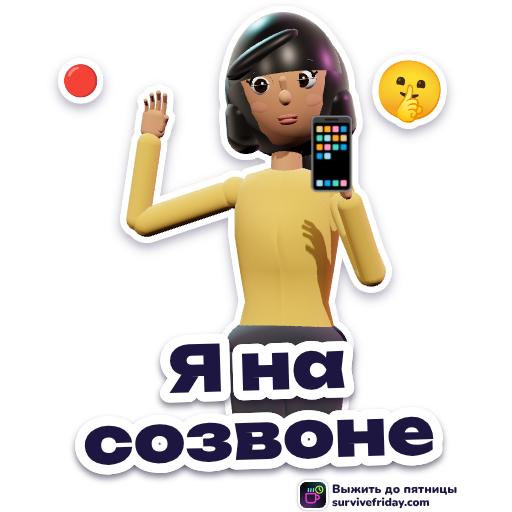
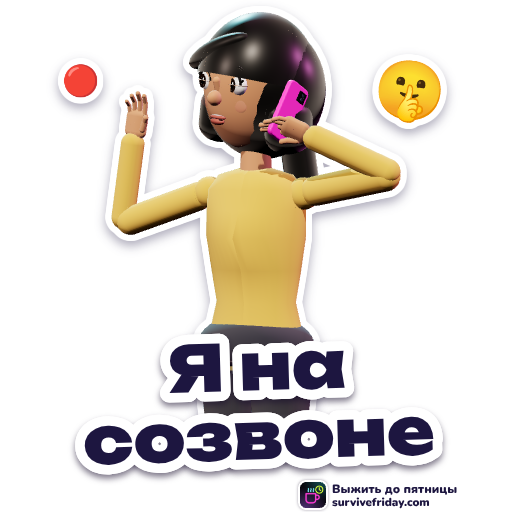
Стикеры: настоящий фейспалм (#13), 3D-телефон у уха (#10, #15), женские варианты 25–28
Claude-Session: https://claude.ai/code/session_01AAVyg7WURH38vHMPY1fwkq

diff --git a/tools/stickers.html b/tools/stickers.html
@@ -86,8 +86,8 @@ const STICKERS = [
   { cap: 'Понедельник…', emoji: ['😩', '☔', '😫'], cam: [0.3, 0.16],
     heroes: [{ p: 'f5', yaw: 0.15, emo: 'sad', mouth: 'sad', lids: 0.5, arms: [[0.12, 0, 0.0, -0.05], [0.12, 0, 0.0, -0.05]], head: [0.3, 0.1, 0.12], lean: [0.12, 0.04], gaze: [0, -0.25] }],
     decor: [{ e: '🌧', x: 95, y: 70, s: 84, r: 0 }, { e: '💧', x: 360, y: 150, s: 34, r: 0.2 }] },
-  { cap: 'Я на созвоне', emoji: ['📞', '🤫', '🎧'], cam: [0.35, 0.1],
-    heroes: [{ p: 'f4', yaw: 0.15, emo: 'neutral', mouth: 'neutral', arms: ['hi', 'phone'], hold: ['📱', 0.24], head: [0.05, 0.15, 0.12], gaze: [-0.25, 0] }],
+  { cap: 'Я на созвоне', emoji: ['📞', '🤫', '🎧'], cam: [0.55, 0.1],
+    heroes: [{ p: 'f4', yaw: 0.1, emo: 'neutral', mouth: 'neutral', arms: ['hi', 'down'], phoneEar: 1, head: [0.05, -0.3, -0.12], gaze: [-0.3, 0] }],
     decor: [{ e: '🤫', x: 410, y: 90, s: 58, r: 0.15 }, { e: '🔴', x: 80, y: 80, s: 30, r: 0 }] },
   { cap: 'Шеф, всё под контролем', emoji: ['👌', '🔥', '🙂'], cam: [0.3, 0.1],
     heroes: [{ p: 'm2', yaw: 0.15, emo: { brow: 0.3, browY: 0.056 }, mouth: 'grin', arms: ['down', 'thumb'], hold: ['👍', 0.3], head: [-0.05, 0.1, 0.1], gaze: [0.2, 0] }],
@@ -96,13 +96,13 @@ const STICKERS = [
     heroes: [{ p: 'f1', yaw: -0.2, emo: 'ask', mouth: 'grin', arms: ['down', 'show'], hold: ['📊', 0.36], head: [-0.05, -0.1, -0.2], gaze: [0.2, 0] }],
     decor: [{ e: '😅', x: 90, y: 90, s: 56, r: -0.15 }, { e: '⏳', x: 430, y: 90, s: 52, r: 0.2 }] },
   { cap: 'Ну давай, ещё\nодну правку', emoji: ['🤦', '✏', '😤'], cam: [0.3, 0.1],
-    heroes: [{ p: 'm3', yaw: 0.15, emo: 'sad', mouth: 'sad', lids: 0.6, arms: ['down', 'face'], head: [0.22, 0.05, 0.08], lean: [0.05, 0] }],
+    heroes: [{ p: 'm3', yaw: 0.15, emo: 'sad', mouth: 'sad', lids: 0.6, arms: ['down', 'down'], facepalm: 1, head: [0.35, 0.05, 0.1], lean: [0.06, 0] }],
     decor: [{ e: '✏', x: 90, y: 110, s: 60, r: -0.4 }, { e: '📝', x: 430, y: 110, s: 56, r: 0.25 }] },
   { cap: 'Я просто стажёр', emoji: ['🤷', '👶', '🙈'], cam: [0.25, 0.14],
     heroes: [{ p: 'kidm', yaw: 0.1, emo: 'ask', mouth: 'ask', arms: ['shrug', 'shrug'], head: [-0.05, 0.05, 0.2], gaze: [0, 0.1] }],
     decor: [{ e: '❔', x: 100, y: 90, s: 56, r: -0.2 }, { e: '❔', x: 420, y: 80, s: 46, r: 0.2 }] },
   { cap: 'Перезвоню', emoji: ['📱', '🏃', '👋'], cam: [-0.9, 0.1],
-    heroes: [{ p: 'm4', yaw: -0.85, emo: 'ask', mouth: 'neutral', arms: ['phone', 'walkB'], legs: [[-0.45, 0], [0.4, 0]], hold: ['📱', 0.24], holdArm: 0, head: [0, 0.35, 0], lean: [0.08, 0], gaze: [0.3, 0] }],
+    heroes: [{ p: 'm4', yaw: -0.85, emo: 'ask', mouth: 'neutral', arms: ['down', 'walkB'], legs: [[-0.45, 0], [0.4, 0]], phoneEar: 0, head: [0, 0.6, 0], lean: [0.08, 0], gaze: [0.3, 0] }],
     decor: [{ speed: 1, x: 380, y: 180, w: 100, flip: 1 }, { e: '💨', x: 440, y: 330, s: 60, r: 0 }] },
   { cap: 'Обед!', emoji: ['🍔', '😋', '🍕'], cam: [0.3, 0.1], crop: 1,
     heroes: [{ p: 'f4', yaw: 0.15, emo: 'happy', mouth: 'grin', arms: ['up', 'upV'], hold: ['🍔', 0.36], by: 0.12, legs: [[0.25, -0.08], [-0.35, 0.08]], head: [-0.12, 0, -0.1] }],
@@ -137,6 +137,19 @@ const STICKERS = [
   { cap: 'Выжил!', emoji: ['🏆', '🎉', '💪'], cam: [0.25, 0.12], crop: 1,
     heroes: [{ p: 'm2', yaw: 0.1, emo: 'happy', mouth: 'shout', arms: ['up', 'upV'], hold: ['🏆', 0.38], by: 0.13, legs: [[0.3, -0.1], [-0.3, 0.1]], head: [-0.18, 0, 0.05] }],
     decor: [{ burst: 1, x: 256, y: 190, r: 225, c: '#d4ff3a', n: 16 }, { confetti: 46 }, { e: '🎉', x: 80, y: 290, s: 66, r: -0.2 }] },
+  // женские варианты
+  { cap: 'Сделала вчера', emoji: ['😎', '✅', '💅'], cam: [-0.4, 0.08],
+    heroes: [{ p: 'f4', yaw: -0.3, emo: 'happy', mouth: 'happy', lids: [0.35, 0], arms: ['thumb', 'hips'], hold: ['👍', 0.3], holdArm: 0, head: [-0.12, -0.15, -0.1] }],
+    decor: [{ e: '✅', x: 430, y: 90, s: 74, r: 0.2 }, { e: '✨', x: 80, y: 70, s: 50, r: 0 }] },
+  { cap: 'Уволена… шучу 😜', emoji: ['📦', '😜', '🙃'], cam: [-0.4, 0.1],
+    heroes: [{ p: 'f2', yaw: -0.2, emo: 'happy', mouth: 'grin', lids: [1, 0], arms: ['carry', 'carry'], props: ['box'], head: [-0.08, -0.2, -0.15] }],
+    decor: [{ e: '😜', x: 80, y: 80, s: 56, r: -0.2 }] },
+  { cap: 'Ушла на кулер', emoji: ['🚰', '🥤', '💧'], cam: [-0.6, 0.1],
+    heroes: [{ p: 'f1', yaw: -1.25, emo: 'happy', mouth: 'happy', arms: [[-0.5, 0, 0.1, -1.45], 'walkB'], legs: [[-0.42, 0], [0.4, 0]], props: [['cup', 0]], head: [-0.05, 0.75, 0], gaze: [0.3, 0] }],
+    decor: [{ e: '🚰', x: 72, y: 230, s: 92, r: 0 }, { e: '💧', x: 107, y: 120, s: 40, r: 0 }, { e: '🎵', x: 392, y: 90, s: 46, r: 0.2 }] },
+  { cap: 'Выжила!', emoji: ['🏆', '🎉', '💪'], cam: [-0.25, 0.12], crop: 1,
+    heroes: [{ p: 'f5', yaw: -0.1, emo: 'happy', mouth: 'shout', arms: ['upV', 'up'], hold: ['🏆', 0.38], holdArm: 0, by: 0.13, legs: [[-0.3, -0.1], [0.3, 0.1]], head: [-0.18, 0, -0.05] }],
+    decor: [{ burst: 1, x: 256, y: 190, r: 225, c: '#ff8ae6', n: 16 }, { confetti: 46 }, { e: '🎉', x: 432, y: 290, s: 66, r: 0.2 }] },
 ];
 
 // ---------- 3D-предметы (простые формы в стиле героев)
@@ -152,10 +165,16 @@ const BUILD = {
     return g;
   },
   mug(T) { const g = BUILD.cup(T); g.scale.setScalar(0.9); return g; },
-  phone(T) {
-    const g = new T.Group();
-    mk(T, new T.BoxGeometry(0.075, 0.15, 0.012), phys(T, '#15151c', 0.25, { clearcoat: 1 }), 0, 0, 0, g);
-    const sc = new T.Mesh(new T.PlaneGeometry(0.066, 0.135), new T.MeshBasicMaterial({ color: '#2de2e6' })); sc.position.z = 0.0065; g.add(sc);
+  phone(T) {  // смартфон: скруглённый корпус в ярком чехле, экран спереди (+z), камера сзади
+    const g = new T.Group(), W = 0.08, H = 0.16, R = 0.014;
+    const rr = (w, h, r) => { const sh = new T.Shape(), x = -w / 2, y = -h / 2;
+      sh.moveTo(x + r, y); sh.lineTo(x + w - r, y); sh.quadraticCurveTo(x + w, y, x + w, y + r); sh.lineTo(x + w, y + h - r); sh.quadraticCurveTo(x + w, y + h, x + w - r, y + h);
+      sh.lineTo(x + r, y + h); sh.quadraticCurveTo(x, y + h, x, y + h - r); sh.lineTo(x, y + r); sh.quadraticCurveTo(x, y, x + r, y); return sh; };
+    const body = mk(T, new T.ExtrudeGeometry(rr(W, H, R), { depth: 0.008, bevelEnabled: true, bevelSize: 0.004, bevelThickness: 0.004, bevelSegments: 3, curveSegments: 8 }), phys(T, '#ff3bd4', 0.35, { clearcoat: 0.8 }), 0, 0, -0.004, g);
+    const glass = mk(T, new T.ShapeGeometry(rr(W - 0.004, H - 0.004, R - 0.002), 8), phys(T, '#101018', 0.1, { clearcoat: 1 }), 0, 0, 0.0085, g);
+    const scr = new T.Mesh(new T.ShapeGeometry(rr(W - 0.012, H - 0.02, R - 0.006), 8), new T.MeshBasicMaterial({ color: '#2de2e6' })); scr.position.z = 0.009; g.add(scr);
+    const cam = mk(T, new T.BoxGeometry(0.03, 0.03, 0.004), phys(T, '#1b1b22', 0.2, { clearcoat: 1 }), -0.016, 0.054, -0.0105, g);
+    for (const dy of [-0.006, 0.006]) { const l = mk(T, new T.CylinderGeometry(0.0045, 0.0045, 0.003, 14), phys(T, '#55607a', 0.1, { metalness: 0.6 }), -0.016, 0.054 + dy, -0.013, g); l.rotation.x = PI / 2; }
     return g;
   },
   laptop(T) {
@@ -226,7 +245,6 @@ function attachProps(T, hero, h) {
     if (k === 'box') { o.position.set(0, 1.0, 0.3); u.body.add(o); const s = emojiSprite(T, '🪴', 0.34); s.position.set(-0.08, 0.26, 0); o.add(s); const s2 = emojiSprite(T, '🖼', 0.22); s2.position.set(0.12, 0.2, 0.05); o.add(s2); continue; }
     if (k === 'mug') { o.position.set(0.3, 1.07, 0.32); u.body.add(o); o.userData.upright = true; continue; }
     const el = u.arms[arm].el, s = arm ? 1 : -1;
-    if (k === 'phone' && mode === 'ear') { o.position.set(-s * 0.035, -0.31, 0.05); o.rotation.set(0, -s * 1.3, 0); el.add(o); continue; }
     o.position.set(-s * 0.05, -0.33, 0.04); el.add(o); o.userData.upright = true;
   }
   if (h.hold) { const [e, size] = h.hold, arm = h.holdArm ?? 1; const sp = emojiSprite(T, e, size); sp.position.set(0, -0.37, 0.07); u.arms[arm].el.add(sp); }
@@ -235,6 +253,44 @@ function attachProps(T, hero, h) {
     u.body.position.y = P.seat; u.legs.forEach(l => { l.rotation.x = P.legs; l.rotation.z = 0; });
     u.arms.forEach((a, i) => { const sg = i ? 1 : -1; a.sh.rotation.set(P.arms[0], 0, a.rest + sg * P.arms[1]); a.el.rotation.x = P.arms[2]; });
   }
+}
+
+// ---------- рука «дотягивается» до точки: покоординатный спуск по углам плеча и локтя (простая IK)
+function reach(T, hero, i, target, init) {
+  const a = hero.userData.arms[i], sg = i ? 1 : -1, [x0, y0, z0, e0, o = 'XYZ'] = typeof init === 'string' ? ARM[init] : init;
+  const hp = new T.Vector3(), elb = new T.Vector3(), headC = hero.userData.head.getWorldPosition(new T.Vector3());
+  const set = p => { a.sh.rotation.set(p[0], sg * p[1], a.rest + sg * p[2], o); a.el.rotation.x = p[3]; a.sh.updateMatrixWorld(true); };
+  const cost = p => {
+    set(p); hp.set(0, -0.31, 0.004); a.el.localToWorld(hp); a.el.getWorldPosition(elb);
+    const pen = Math.max(0, 0.2 - elb.distanceTo(headC)) * 4 + Math.max(0, p[3] - 0) * 2 + Math.max(0, -2.7 - p[3]) * 2;
+    return hp.distanceTo(target) + pen + 0.004 * Math.hypot(p[0] - x0, p[1] - y0, p[2] - z0);
+  };
+  let p = [x0, y0, z0, e0], c = cost(p);
+  for (let st = 0.4; st > 0.003; st *= 0.6) for (let it = 0; it < 30; it++) {
+    let moved = false;
+    for (let k = 0; k < 4; k++) for (const d of [st, -st]) { const q = p.slice(); q[k] += d; const cq = cost(q); if (cq < c) { p = q; c = cq; moved = true; } }
+    if (!moved) break;
+  }
+  set(p);
+  return c;
+}
+// телефон у уха (side: 1 — у правого по экрану, −1 — у левого): крепится к голове, экраном к щеке, задняя крышка — к зрителю;
+// рука с этой стороны держит его за нижнюю половину — верх с камерой и чехол видны
+function earPhone(T, hero, arm, init) {
+  const u = hero.userData, s = arm ? 1 : -1, ph = BUILD.phone(T);
+  ph.scale.setScalar(1 / u.head.scale.x);
+  ph.position.set(s * 0.122, -0.03, 0.03);
+  ph.rotation.set(-0.5, -s * PI / 2, 0, 'XYZ');
+  u.head.add(ph);
+  hero.updateMatrixWorld(true);
+  const tgt = ph.localToWorld(new T.Vector3(0, -0.045, -0.04));  // чуть снаружи нижней половины
+  reach(T, hero, arm, tgt, init || 'phone');
+}
+// фейспалм: ладонь закрывает лоб и глаза
+function facepalm(T, hero, arm) {
+  hero.updateMatrixWorld(true);
+  const tgt = hero.userData.head.localToWorld(new T.Vector3(0, 0.035, 0.15));
+  reach(T, hero, arm, tgt, 'face');
 }
 
 // ---------- 2D: подпись, декор, обводка
@@ -364,6 +420,9 @@ async function main() {
     hero.userData.head.scale.multiplyScalar(h.p.startsWith('kid') ? 1.05 : 1.15);  // стикерная пропорция: голова чуть крупнее — эмоции читаются
     pose(T, hero, h); attachProps(T, hero, h);
     scene.add(hero); roots.push(hero);
+    scene.updateMatrixWorld(true);
+    if (h.phoneEar != null) earPhone(T, hero, h.phoneEar, h.phoneInit);
+    if (h.facepalm != null) facepalm(T, hero, h.facepalm);
   }
   scene.updateMatrixWorld(true);
   scene.traverse(o => { if (o.userData.upright && o.parent) { const q = o.parent.getWorldQuaternion(new T.Quaternion()).invert(); o.quaternion.copy(q); } });

diff --git a/supabase/functions/tg-stickers/index.ts b/supabase/functions/tg-stickers/index.ts
@@ -61,7 +61,7 @@ Deno.serve(async req => {
     for (const g of gs || []) {
       const st = fileId ? await api('sendSticker', { chat_id: g.chat_id, sticker: fileId, disable_notification: true }) : null;
       const m = await api('sendMessage', { chat_id: g.chat_id, disable_notification: true,
-        text: '🕔 Стикеры «Выжить до пятницы» — офисная жизнь в 24 картинках.\n🕔 Survive till Friday stickers — office life in 24 pics.',
+        text: '🕔 Стикеры «Выжить до пятницы» — офисная жизнь в 28 картинках.\n🕔 Survive till Friday stickers — office life in 28 pics.',
         reply_markup: { inline_keyboard: [[{ text: '➕ Добавить стикеры · Add stickers', url: link }], [{ text: '▶ Играть · Play', url: `https://t.me/${me.result.username}?startapp` }]] } });
       posted.push({ chat: g.chat_id, sticker: st ? !!st.ok : null, sent: !!m.ok, err: m.ok ? st?.description : m.description });
       await new Promise(r2 => setTimeout(r2, 1100));
